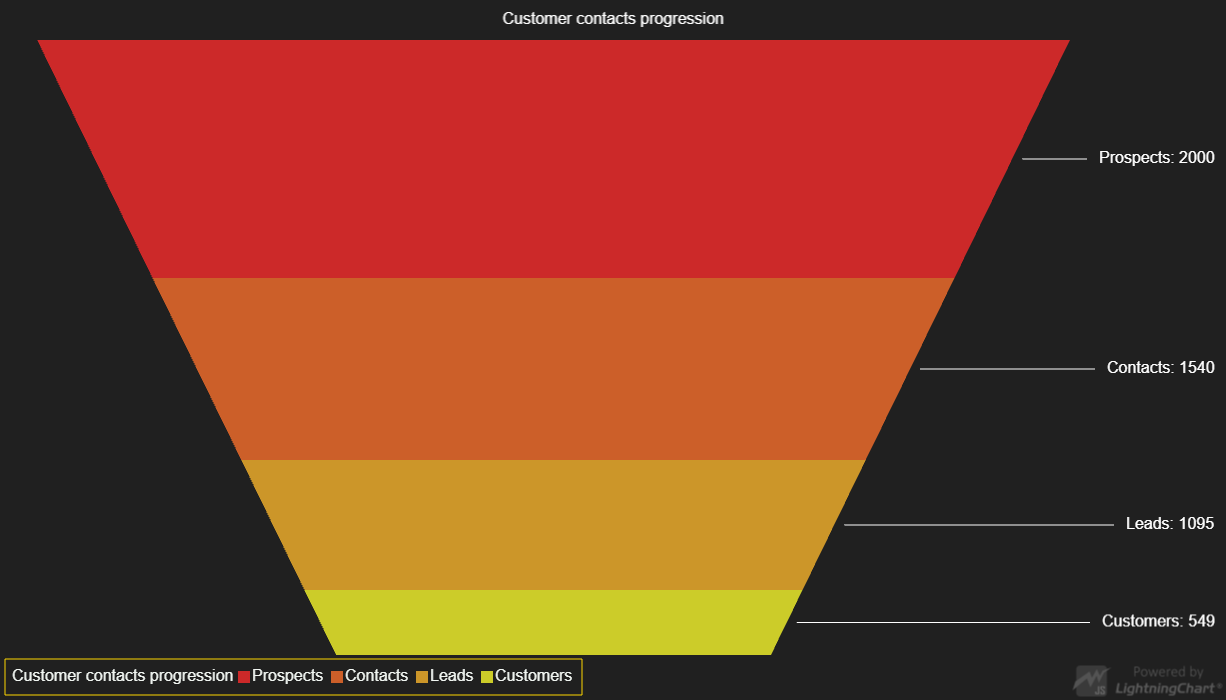
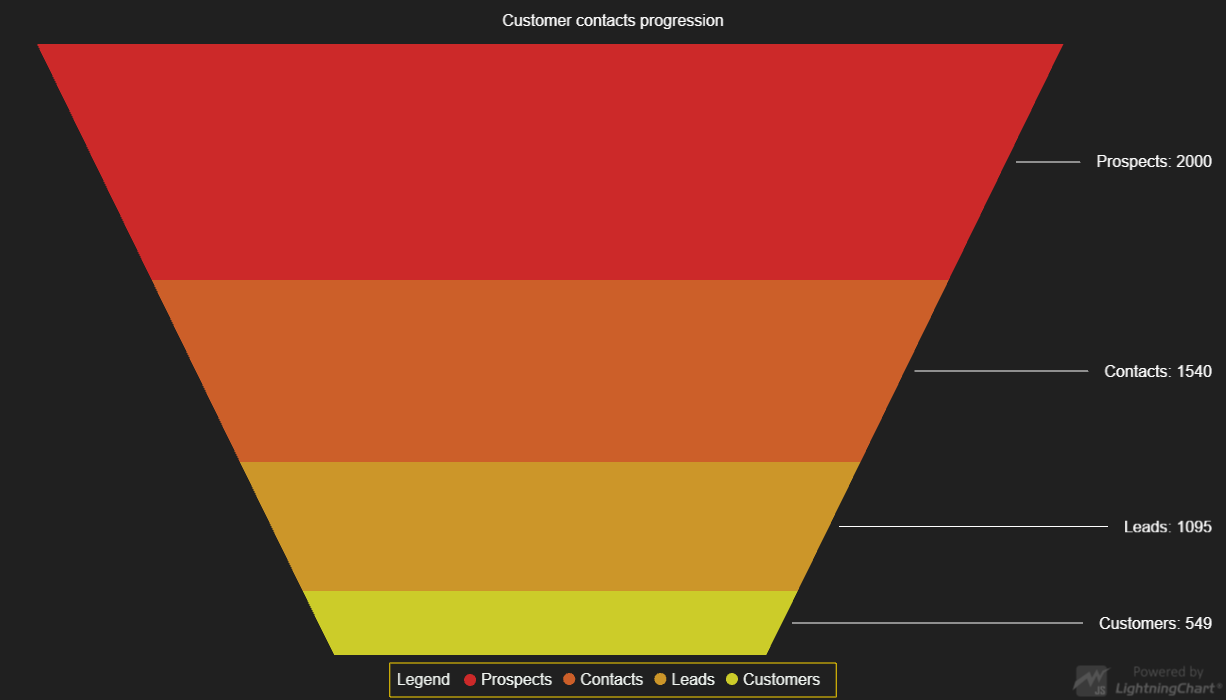
LCJS 3.0.0

diff --git a/src/index.js b/src/index.js
@@ -62,8 +62,5 @@ funnel.setSliceFillStyle(palette)
 
 // Add LegendBox and define the position in the chart
 const lb = funnel
-    .addLegendBox(LegendBoxBuilders.VerticalLegendBox)
-    .setPosition({ x: 0, y: 0 })
-    .setOrigin(UIOrigins.LeftBottom)
-    .setMargin(5)
-lb.add(funnel, false)
+    .addLegendBox(LegendBoxBuilders.HorizontalLegendBox)
+lb.add(funnel, { disposeOnClick: false })

diff --git a/README.md b/README.md
@@ -175,12 +175,12 @@ Direct developer email support can be purchased through a [Support Plan][4] or b
 © Arction Ltd 2009-2020. All rights reserved.
 
 
-[Funnel Chart]: https://www.arction.com/lightningchart-js-api-documentation/v2.2.0/classes/funnelchart.html
-[Collection of Funnel Chart implementations]: https://www.arction.com/lightningchart-js-api-documentation/v2.2.0/globals.html#funnelcharttypes
-[Options for selecting side of labels]: https://www.arction.com/lightningchart-js-api-documentation/v2.2.0/enums/funnellabelside.html
-[Collection of modes for Funnel Slices]: https://www.arction.com/lightningchart-js-api-documentation/v2.2.0/enums/funnelslicemodes.html
-[s label implementations]: https://www.arction.com/lightningchart-js-api-documentation/v2.2.0/globals.html#slicelabelformatters
-[Collection of default color palletes]: https://www.arction.com/lightningchart-js-api-documentation/v2.2.0/globals.html#colorpalettes
-[Solid FillStyle]: https://www.arction.com/lightningchart-js-api-documentation/v2.2.0/classes/solidfill.html
-[Solid Line]: https://www.arction.com/lightningchart-js-api-documentation/v2.2.0/classes/solidline.html
+[Funnel Chart]: https://www.arction.com/lightningchart-js-api-documentation/v3.0.0/classes/funnelchart.html
+[Collection of Funnel Chart implementations]: https://www.arction.com/lightningchart-js-api-documentation/v3.0.0/globals.html#funnelcharttypes
+[Options for selecting side of labels]: https://www.arction.com/lightningchart-js-api-documentation/v3.0.0/enums/funnellabelside.html
+[Collection of modes for Funnel Slices]: https://www.arction.com/lightningchart-js-api-documentation/v3.0.0/enums/funnelslicemodes.html
+[s label implementations]: https://www.arction.com/lightningchart-js-api-documentation/v3.0.0/globals.html#slicelabelformatters
+[Collection of default color palletes]: https://www.arction.com/lightningchart-js-api-documentation/v3.0.0/globals.html#colorpalettes
+[Solid FillStyle]: https://www.arction.com/lightningchart-js-api-documentation/v3.0.0/classes/solidfill.html
+[Solid Line]: https://www.arction.com/lightningchart-js-api-documentation/v3.0.0/classes/solidline.html
 
